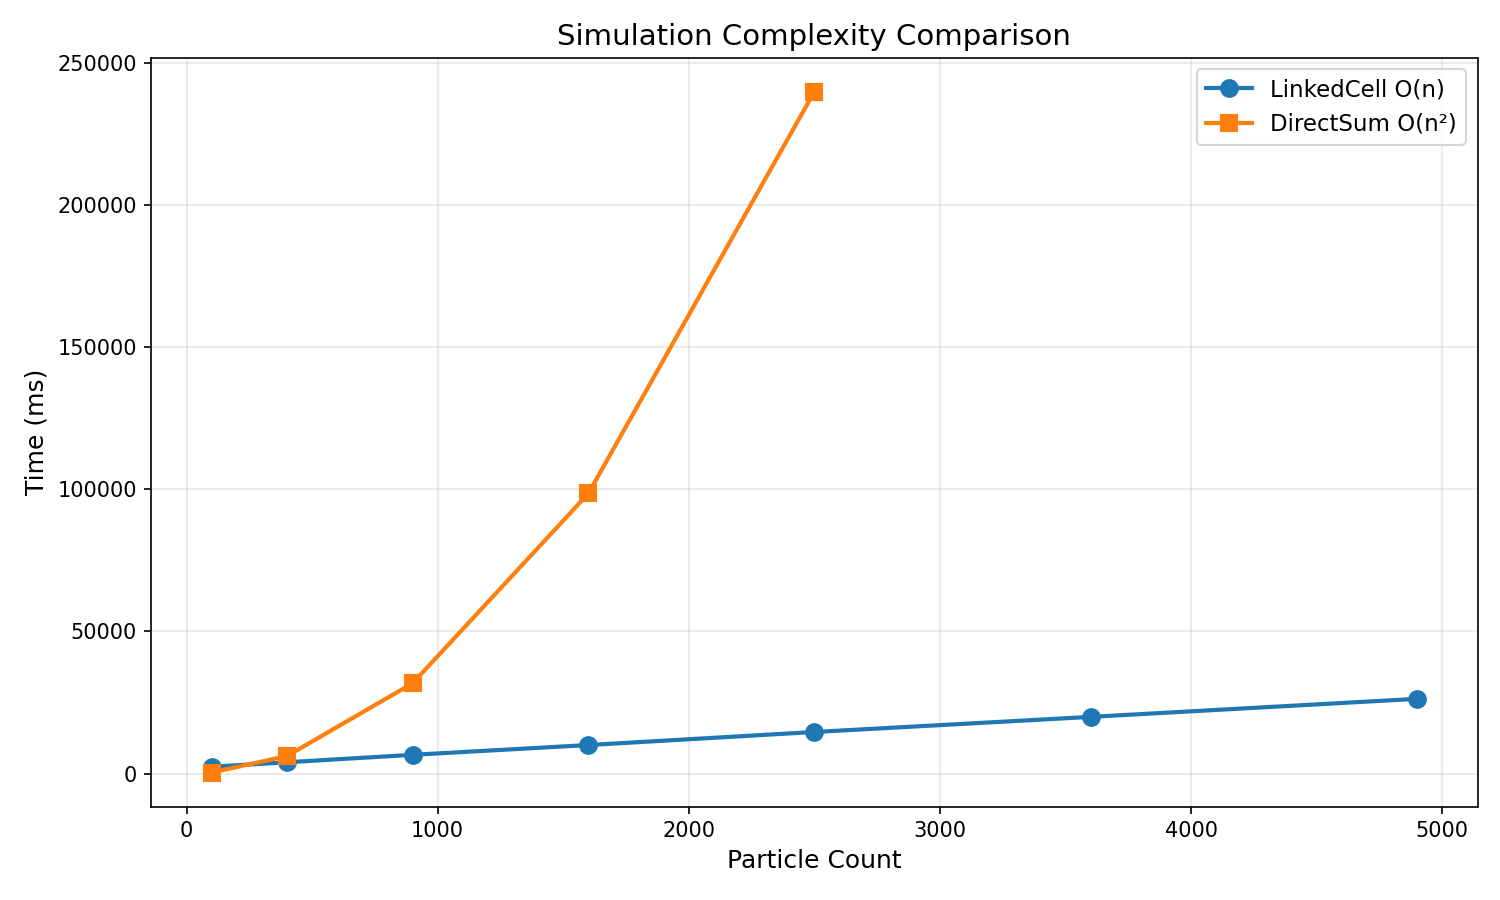
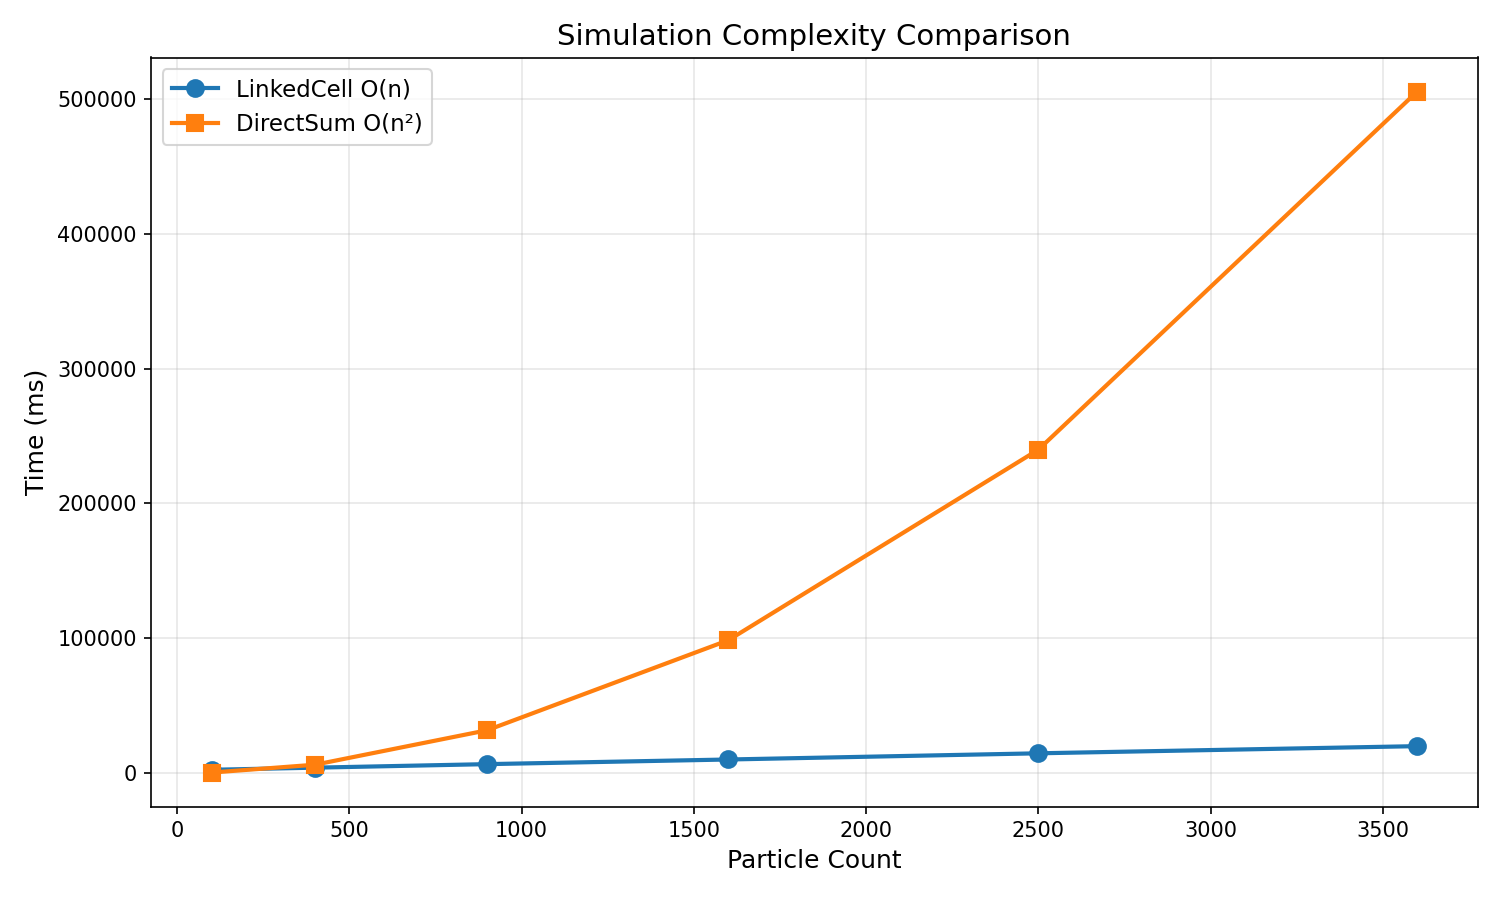
Cleanup, tidy fixes, updated plots

diff --git a/include/utils/Simulation.h b/include/utils/Simulation.h
@@ -5,21 +5,13 @@
 
 #include <algorithm>
 #include <cstddef>
-#include <execution>
 #include <functional>
-#include <limits>
-#include <memory>
-#include <optional>
-#include <stdexcept>
 #include <vector>
 
 #include "exceptions/SimulationException.h"
 #include "io/OutputWriter.h"
 #include "particles/Particle.h"
 #include "particles/ParticleContainer.h"
-#include "particles/boundaries/Boundary.h"
-#include "particles/container/LinkedCellContainer.h"
-#include "particles/container/SimpleContainer.h"
 #include "particles/container/domain/Domain.h"
 #include "physics/ForceSource.h"
 #include "utils/Settings.h"
@@ -208,7 +200,6 @@ class Simulation {
             applyBoundaries();
             // 3. Remove OOB particles
             removeParticles();
-            
 
             // 4. Calculate forces (including ghost interactions)
             SPDLOG_DEBUG("Iteration {}: Calculating forces for {} particles", iteration + 1, particles.size());

diff --git a/benchmarks/src/FullComplexityBenchmarks.cpp b/benchmarks/src/FullComplexityBenchmarks.cpp
@@ -80,7 +80,7 @@ void bmSimulationComplexityDirectSum(benchmark::State& state) {
     double spacing = 1.1225;
     double grid_size = static_cast<double>(n) * spacing;
     double margin = 10.0;
-    R3 domain_size = {grid_size + 2 * margin, grid_size + 2 * margin, 1.};
+    R3 domain_size = {grid_size + (2 * margin), grid_size + (2 * margin), 1.};
     SimpleContainer part_container;
     ContainerRef particles(part_container);
     CuboidGenerator generator({margin, margin, 0.0}, {0., 0., 0.}, {n, n, static_cast<size_t>(1)}, 1.0, spacing, 0.3,
@@ -111,7 +111,7 @@ void bmSimulationComplexityDirectSum(benchmark::State& state) {
     }
 }
 BENCHMARK(bmSimulationComplexityLinkedCell)
-    ->Name("Simulation/Complexity/LinkedCell"
+    ->Name("Simulation/Complexity/LinkedCell")
     ->Arg(100)
     ->Arg(400)
     ->Arg(900)

diff --git a/src/io/fileReader/YAMLReader.cpp b/src/io/fileReader/YAMLReader.cpp
@@ -359,9 +359,9 @@ void YAMLReader::parseDomain(SettingsParam& settings, const YAML::Node& node) {
                         boundary = std::make_unique<Reflecting>(location, dimension, ghost_on_boundary, sigma, epsilon);
                         break;
                     }
-                    case BoundaryType::VELOCITYREFLECT: 
+                    case BoundaryType::VELOCITYREFLECT:
                         boundary = std::make_unique<VelocityReflect>(location, dimension);
-                        break; 
+                        break;
                     case BoundaryType::OUTFLOW:
                     default:
                         boundary = std::make_unique<Outflow>(location, dimension);

diff --git a/include/particles/boundaries/VelocityReflect.h b/include/particles/boundaries/VelocityReflect.h
@@ -1,17 +1,17 @@
 #ifndef VELOCITYREFLECT_H
 #define VELOCITYREFLECT_H
 
-#include "particles/boundaries/Boundary.h"
 #include "particles/Particle.h"
+#include "particles/boundaries/Boundary.h"
 #include "utils/Vector.h"
 
 namespace mol_sim {
 class VelocityReflect : public Boundary {
-    public:
+   public:
     VelocityReflect(BoundaryLocation location, R3 domain_size) noexcept;
     ~VelocityReflect() override = default;
 
-    void applyBoundary(Particle& p, [[maybe_unused]] const ForceSource& force) const noexcept override; 
+    void applyBoundary(Particle& p, [[maybe_unused]] const ForceSource& force) const noexcept override;
 };
 }  // namespace mol_sim
 #endif

diff --git a/src/particles/boundaries/VelocityReflect.cpp b/src/particles/boundaries/VelocityReflect.cpp
@@ -8,12 +8,12 @@ void VelocityReflect::applyBoundary(Particle& p, [[maybe_unused]] const ForceSou
     size_t axis = getAxis();
     int sign = getSign();
     if (sign < 0 && p.getX()[axis] < 0) {
-            p.getX()[axis] *= -1;
-            p.getV()[axis] *= -1;
+        p.getX()[axis] *= -1;
+        p.getV()[axis] *= -1;
     } else if (sign > 0 && p.getX()[axis] > domain_size[axis]) {
-            p.getX()[axis] -= 2 * (p.getX()[axis] - domain_size[axis]);
-            p.getV()[axis] *= -1;
+        p.getX()[axis] -= 2 * (p.getX()[axis] - domain_size[axis]);
+        p.getV()[axis] *= -1;
     }
 }
 
-}  // namespace mol_sim  
+}  // namespace mol_sim

diff --git a/include/particles/container/SimpleContainer.h b/include/particles/container/SimpleContainer.h
@@ -465,9 +465,7 @@ class SimpleContainer : public std::vector<Particle> {
         friend bool operator==(const proximity_iterator& a, const proximity_iterator& b) noexcept {
             return a.cur == b.cur;
         }
-        friend bool operator!=(const proximity_iterator& a, const proximity_iterator& b) noexcept {
-            return !(a == b);
-        }
+        friend bool operator!=(const proximity_iterator& a, const proximity_iterator& b) noexcept { return !(a == b); }
 
         [[nodiscard]] R3 getCenter() const noexcept { return center_or_domain; }
         [[nodiscard]] double getRadius() const noexcept { return radius; }

diff --git a/src/MolSim.cpp b/src/MolSim.cpp
@@ -2,16 +2,13 @@
 
 #include <cstdlib>
 #include <memory>
-#include <optional>
-#include <stdexcept>
 
-#include "exceptions/CLIException.h"
 #include "exceptions/InputException.h"
 #include "exceptions/MolSimException.h"
 #include "exceptions/SimulationException.h"
-#include "exceptions/YAMLReaderException.h"
 #include "io/CLIParse.h"
 #include "io/FileReader.h"
+#include "io/fileReader/XVMReader.h"
 #include "io/fileReader/YAMLReader.h"
 #include "io/outputWriter/VTKWriter.h"
 #include "io/outputWriter/XYZWriter.h"

diff --git a/doxygen/plot_complexity.py b/doxygen/plot_complexity.py
@@ -62,7 +62,7 @@ def plot_complexity(linked_cell, direct_sum, output_file):
 
 def main():
     input_file = sys.argv[1] if len(sys.argv) > 1 else '../benchmark_data/complexityData.txt'
-    output_file = sys.argv[2] if len(sys.argv) > 2 else 'complexity_plot.png'
+    output_file = sys.argv[2] if len(sys.argv) > 2 else 'graphics/complexity_plot.png'
 
     linked_cell, direct_sum = parse_benchmark_data(input_file)
 

diff --git a/include/utils/Vector.h b/include/utils/Vector.h
@@ -39,7 +39,7 @@ class Vector {
      *
      * @param init array of fitting type and size, copied to the data of the Vector
      */
-    Vector(std::array<T, N> init) : data_(init) {};
+    Vector(std::array<T, N> init) : data_(init){};
 
     /**
      * @brief Constructor copies N given values into the components of a Vector

diff --git a/include/io/fileReader/YAMLReader.h b/include/io/fileReader/YAMLReader.h
@@ -5,13 +5,10 @@
 #include <yaml-cpp/node/node.h>
 
 #include <cstddef>
-#include <memory>
-#include <optional>
 #include <string>
 #include <vector>
 
 #include "io/FileReader.h"
-#include "particles/boundaries/Boundary.h"
 #include "particles/container/ContainerRef.h"
 #include "utils/Settings.h"
 #include "utils/Vector.h"

diff --git a/include/exceptions/YAMLReaderException.h b/include/exceptions/YAMLReaderException.h
@@ -13,7 +13,7 @@ namespace mol_sim {
  */
 class YAMLReaderException : public InputException {
    public:
-    explicit YAMLReaderException(const std::string& message) : InputException(message) {};
+    explicit YAMLReaderException(const std::string& message) : InputException(message){};
 };
 }  // namespace mol_sim
 

diff --git a/include/exceptions/XVMReaderException.h b/include/exceptions/XVMReaderException.h
@@ -13,7 +13,7 @@ namespace mol_sim {
  */
 class XVMReaderException : public InputException {
    public:
-    explicit XVMReaderException(const std::string& message) : InputException(message) {};
+    explicit XVMReaderException(const std::string& message) : InputException(message){};
 };
 }  // namespace mol_sim
 
